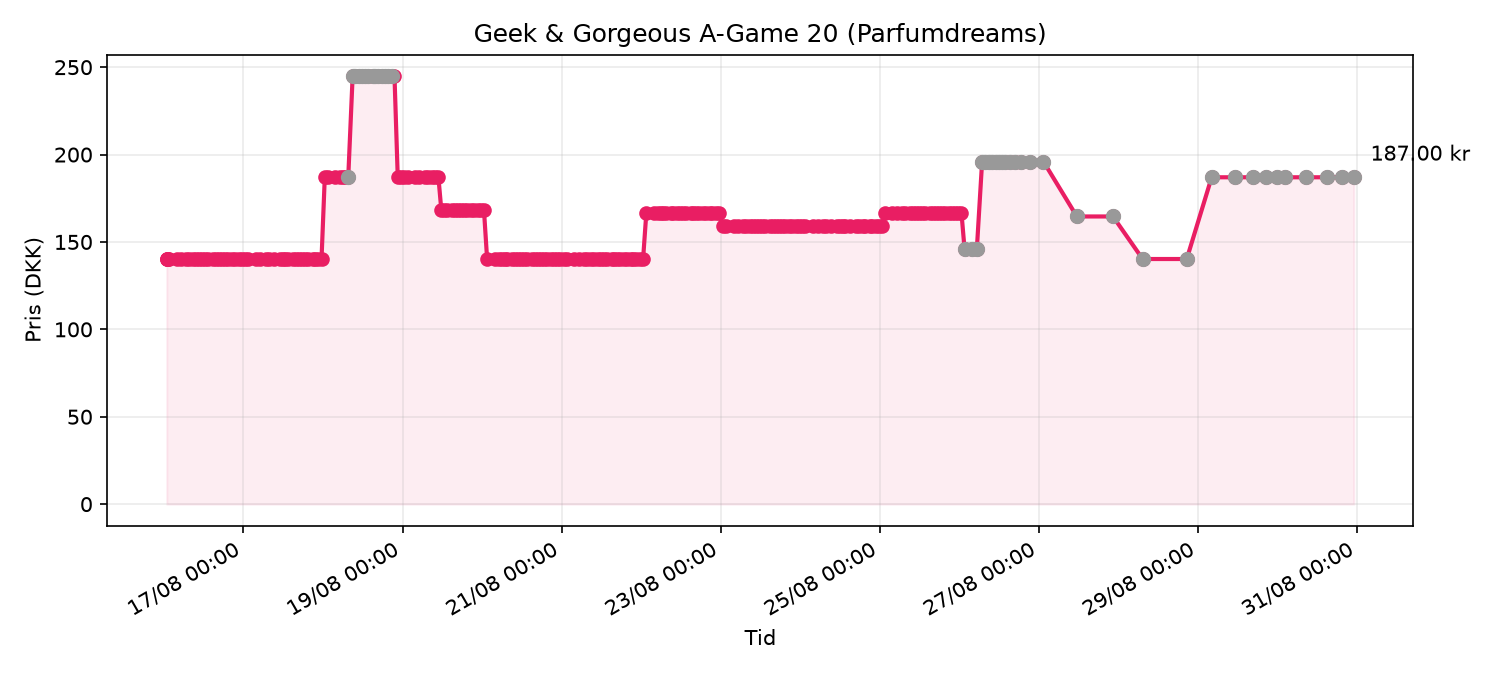
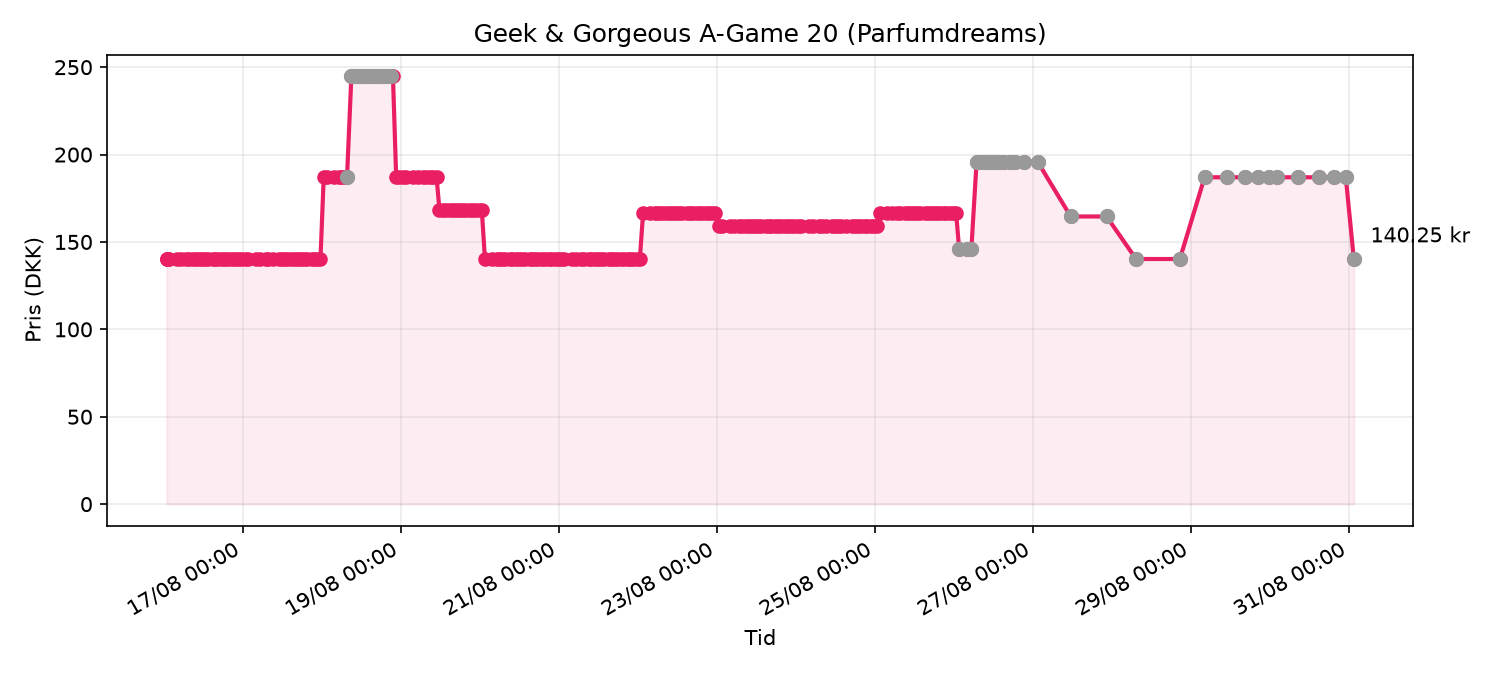
price check 2026-08-30T23:23Z

diff --git a/data/price_chart.html b/data/price_chart.html
@@ -13,7 +13,7 @@
 </head>
 <body>
   <h1>Geek & Gorgeous A-Game 20 (Parfumdreams)</h1>
-  <p class="meta">Senest tjekket: 30/08/2026 22:56 · Pris: <strong>187.00 kr</strong> · udsolgt</p>
+  <p class="meta">Senest tjekket: 31/08/2026 01:22 · Pris: <strong>140.25 kr</strong> · udsolgt</p>
   
   <p><a href="https://www.parfumdreams.dk/Geek-Gorgeous/Samlinger/101-aktive-stoffer/A-Game-20-Serum/index_137083.aspx?variation=221879">Åbn produkt på Parfumdreams</a></p>
   <img src="price_chart.png" alt="Prisgraf">
